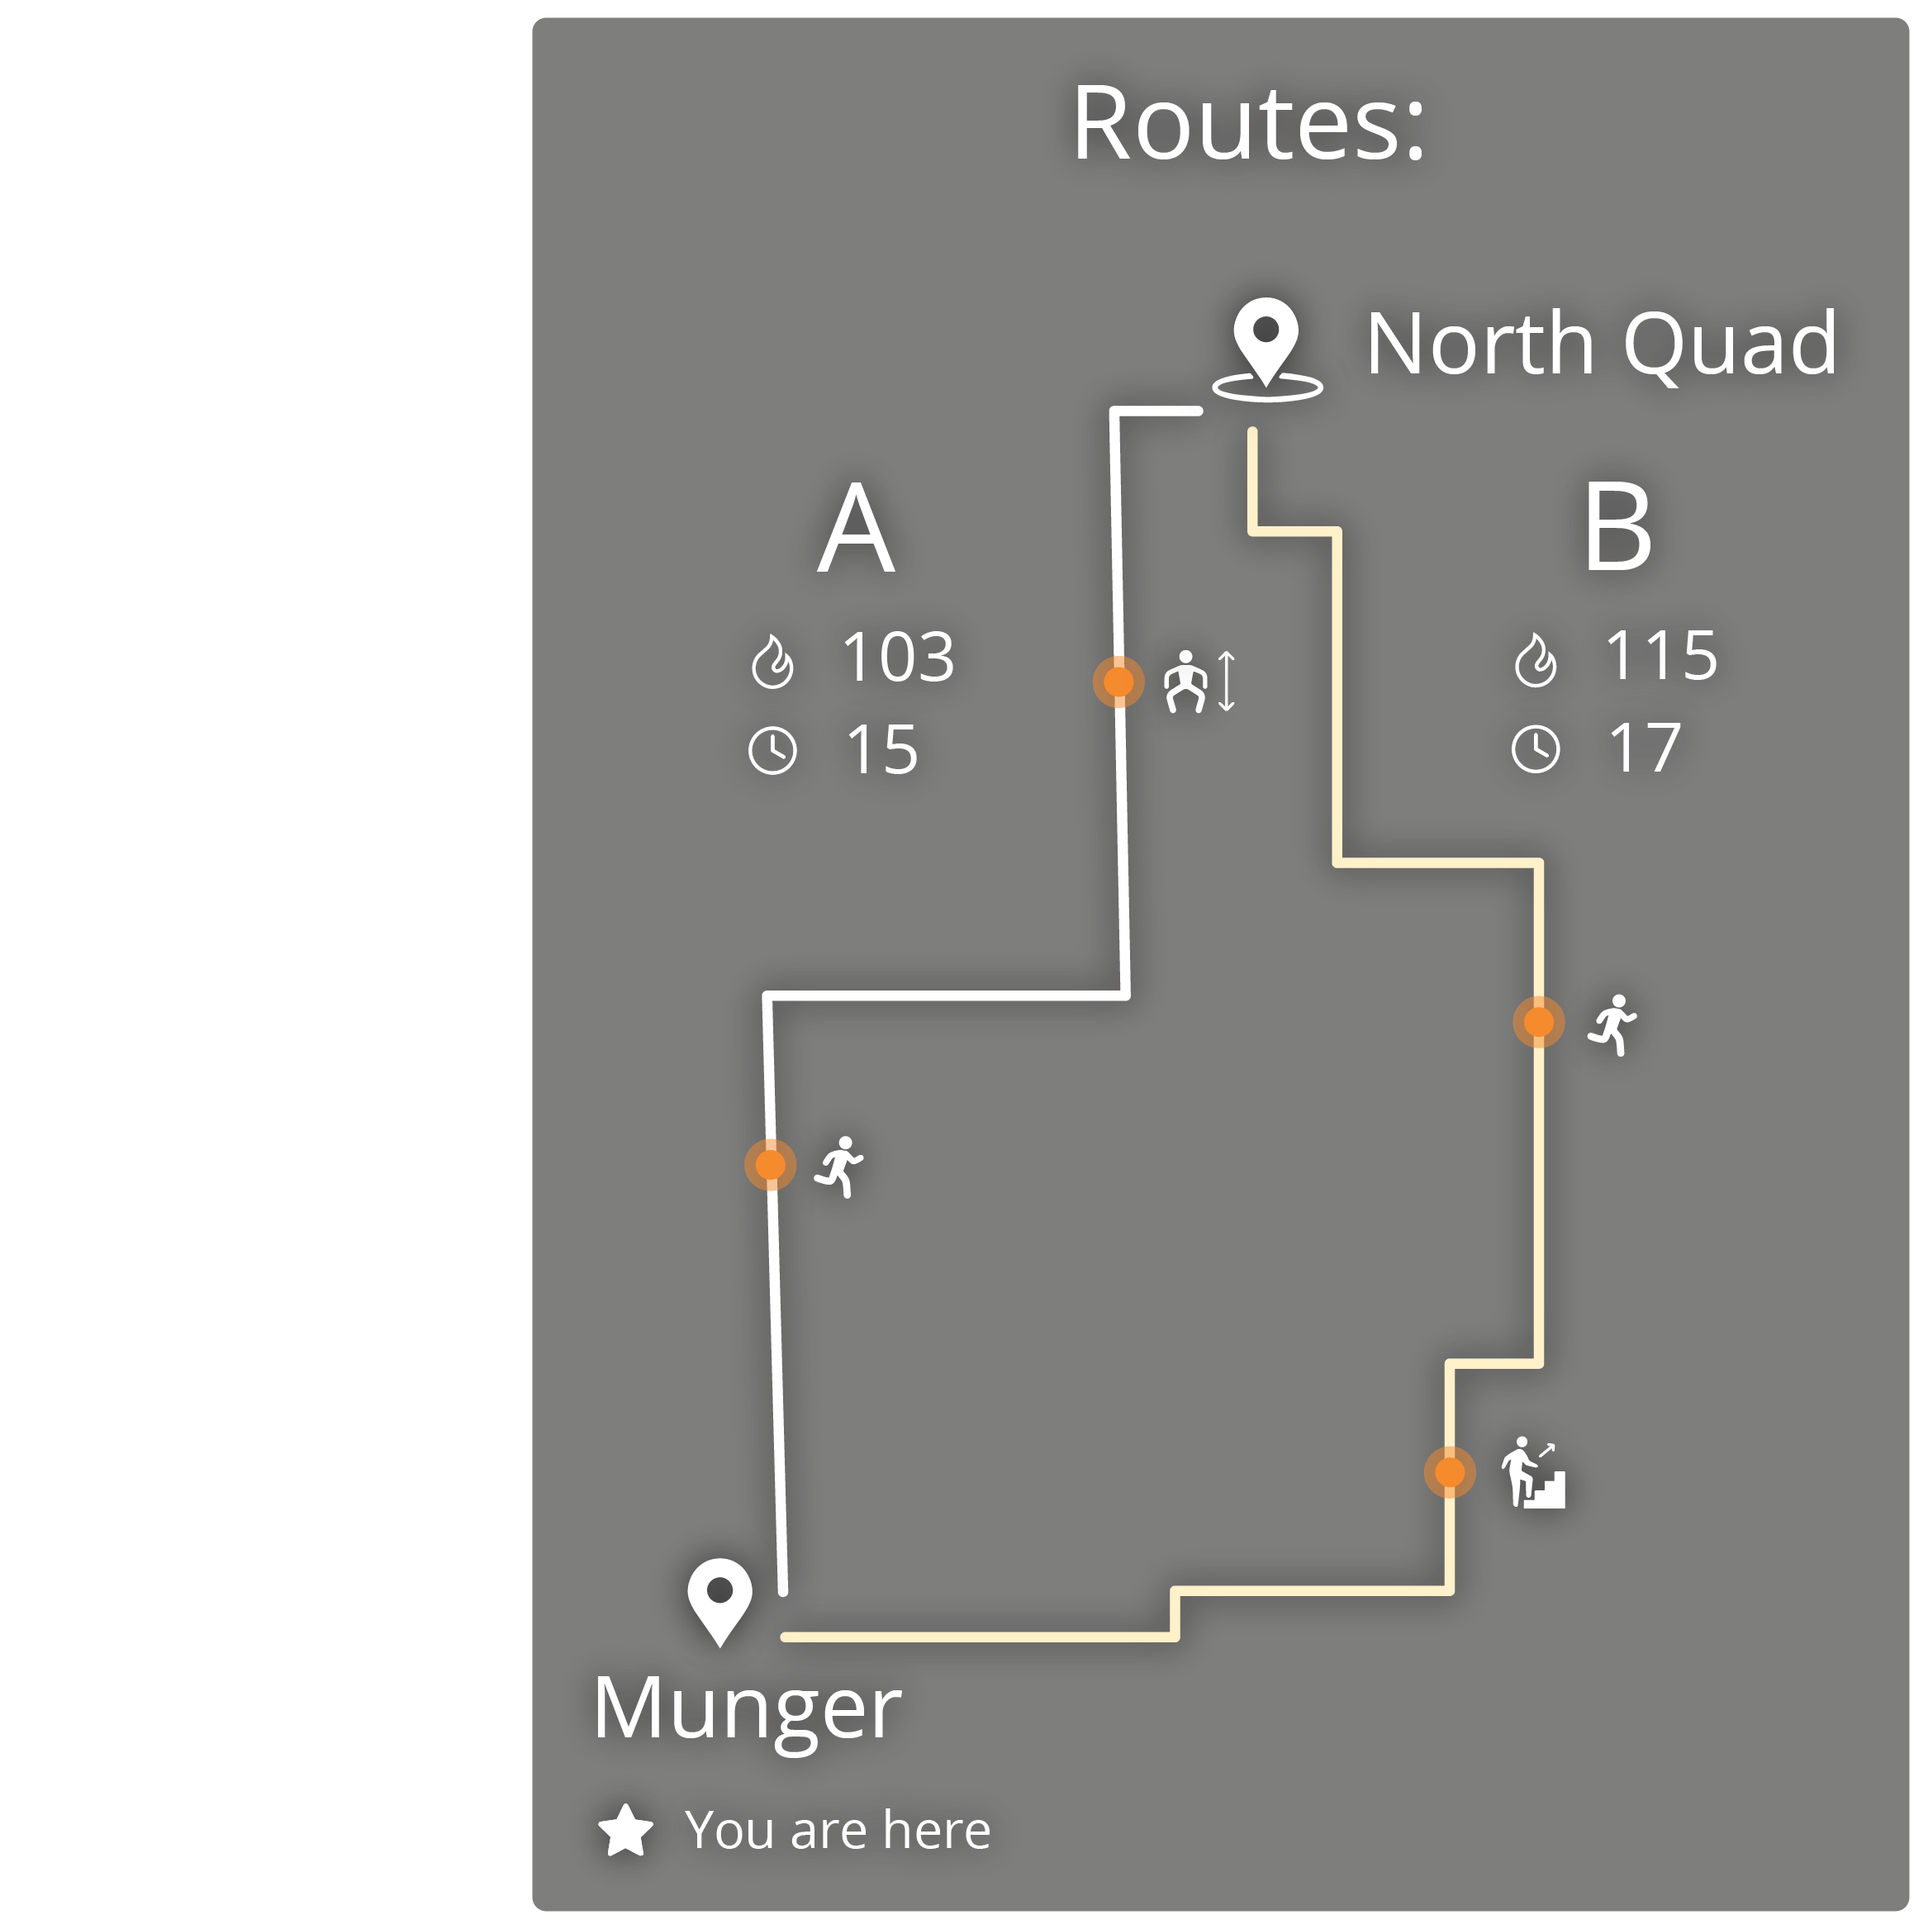
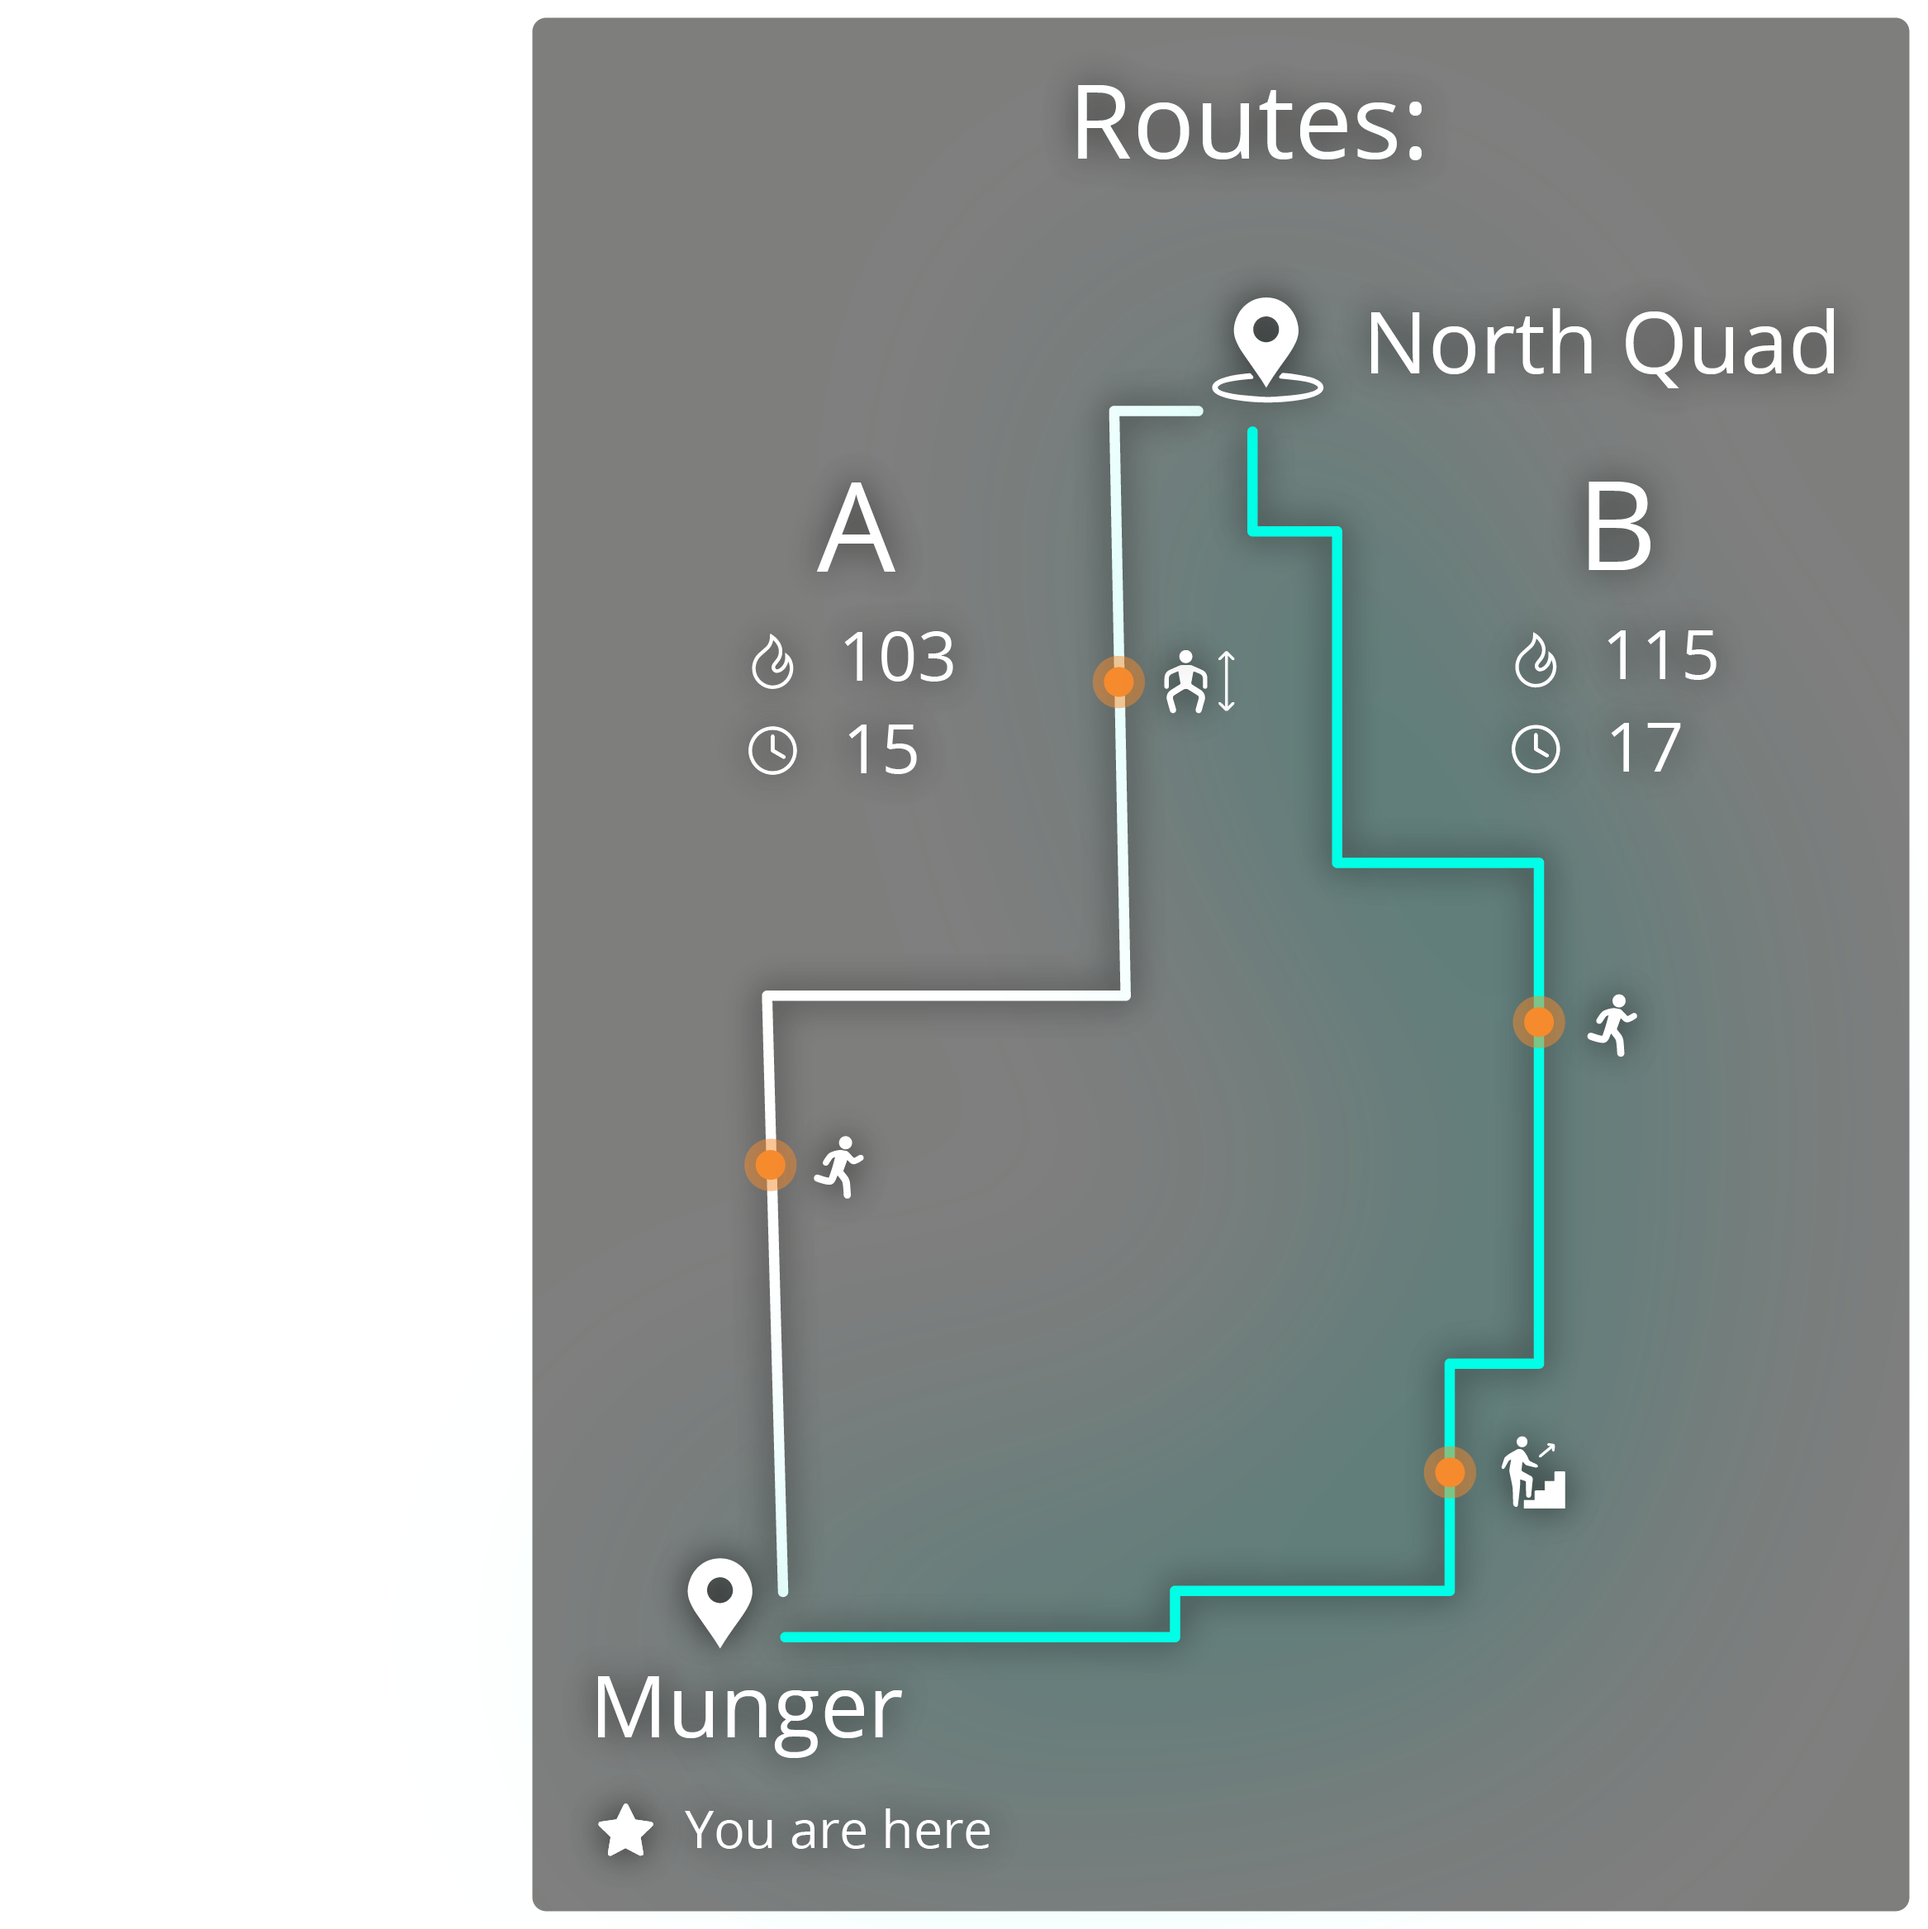
adding new exercise order and highlights

Changed region(s): [[0.401, 0.2775, 0.8329, 0.8634], [0.6478, 0.2158, 0.6787, 0.2775], [0.5553, 0.2775, 0.5861, 0.3392]]

diff --git a/index.html b/index.html
@@ -535,6 +535,9 @@
 </script>
 <body style='margin : 0px; overflow: hidden;'>
   <a-scene embedded arjs='sourceType: webcam; debugUIEnabled: false;'>
+      <a-assets>
+          <audio id="notification" src="Assets/quite-impressed.mp3" preload="auto"></audio>
+        </a-assets>
     <a-camera></a-camera>
      
       </a-image>
@@ -573,8 +576,8 @@
           <a-image class="tile" position="2.7 .7 -8" src="Assets/UI/demov2/Time_on_top/1007_after_route_selection.png" width="3" height="3"></a-image>
       </a-entity>
       <a-entity id="ui7" position='0 0 0' visible=false>
-        <a-image class="tile" position="2.7 -.2 -8" src="Assets/UI/demov2/06_300ft_climbing.png" width="3" height="3"></a-image>
-        <a-sound src="src: Assets/quite-impressed.mp3" autoplay="true" position="0 2 5"></a-sound>
+        <a-image class="tile" position="2.7 -.2 -8" src="Assets/UI/demov2/09_300ft_jogging.png" width="3" height="3"></a-image>
+        <a-sound src="#notification" autoplay="true" position="0 2 5"></a-sound>
         <a-image class="tile" position="2.7 .7 -8" src="Assets/UI/demov2/Time_on_top/1010_300ft.png" width="3" height="3"></a-image>
         <a-image id="left-tile" class="tile" position="0 -1.2 -8" src="Assets/UI/demov2/Arrow/Arrow_straight.png" width="2" height="2">
           <a-animation
@@ -589,7 +592,7 @@
         </a-image>
       </a-entity>
       <a-entity id="ui8" position='0 0 0' visible=false>
-        <a-image class="tile" position="2.7 -.2 -8" src="Assets/UI/demov2/06_100ft_climbing.png" width="3" height="3"></a-image>
+        <a-image class="tile" position="2.7 -.2 -8" src="Assets/UI/demov2/10_100ft_jogging.png" width="3" height="3"></a-image>
         <a-image class="tile" position="2.7 .7 -8" src="Assets/UI/demov2/Time_on_top/1012_100ft.png" width="3" height="3"></a-image>
         <a-image id="left-tile" class="tile" position="0 -1.2 -8" src="Assets/UI/demov2/Arrow/Arrow_straight.png" width="2" height="2">
           <a-animation
@@ -604,7 +607,7 @@
         </a-image>
       </a-entity>
       <a-entity id="ui9" position='0 0 0' visible=false>
-        <a-image class="tile" position="2.7 -.2 -8" src="Assets/UI/demov2/07_100ft_climbing_accepted.png" width="3" height="3"></a-image>
+        <a-image class="tile" position="2.7 -.2 -8" src="Assets/UI/demov2/11_100ft_jogging_accepted.png" width="3" height="3"></a-image>
         <a-image class="tile" position="2.7 .7 -8" src="Assets/UI/demov2/Time_on_top/1012_100ft.png" width="3" height="3"></a-image>
         <a-image id="left-tile" class="tile" position="0 -1.2 -8" src="Assets/UI/demov2/Arrow/Arrow_straight.png" width="2" height="2">
           <a-animation
@@ -619,7 +622,7 @@
         </a-image>
       </a-entity>
       <a-entity id="ui10" position='0 0 0' visible=false>
-        <a-image class="tile" position="3.3 -.2 -8" src="Assets/UI/demov2/08_start_climbing.png" width="3" height="3"></a-image>
+        <a-image class="tile" position="3.3 -.2 -8" src="Assets/UI/demov2/12_start_jogging.png" width="3" height="3"></a-image>
         <a-image class="tile" position="2.7 .7 -8" src="Assets/UI/demov2/Time_on_top/1013_start_climbing.png" width="3" height="3"></a-image>
         <a-image id="left-tile" class="tile" position="0 -1.2 -8" src="Assets/UI/demov2/Arrow/Arrow_straight.png" width="2" height="2">
           <a-animation
@@ -693,7 +696,7 @@
         </a-image>
       </a-entity>
       <a-entity id="ui15" position='0 0 0' visible=false>
-          <a-image class="tile" position="2.7 -.2 -8" src="Assets/UI/demov2/10_100ft_jogging.png" width="3" height="3"></a-image>
+          <a-image class="tile" position="2.7 -.2 -8" src="Assets/UI/demov2/06_100ft_climbing.png" width="3" height="3"></a-image>
           <a-image class="tile" position="2.7 .7 -8" src="Assets/UI/demov2/Time_on_top/1018_100ft.png" width="3" height="3"></a-image>
           <a-image id="left-tile" class="tile" position="0 -1.2 -8" src="Assets/UI/demov2/Arrow/Arrow_straight.png" width="2" height="2">
             <a-animation
@@ -708,7 +711,7 @@
           </a-image>
       </a-entity>
       <a-entity id="ui16" position='0 0 0' visible=false>
-          <a-image class="tile" position="2.7 -.2 -8" src="Assets/UI/demov2/11_100ft_jogging_accepted.png" width="3" height="3"></a-image>
+          <a-image class="tile" position="2.7 -.2 -8" src="Assets/UI/demov2/07_100ft_climbing_accepted.png" width="3" height="3"></a-image>
           <a-image class="tile" position="2.7 .7 -8" src="Assets/UI/demov2/Time_on_top/1018_100ft.png" width="3" height="3"></a-image>
           <a-image id="left-tile" class="tile" position="0 -1.2 -8" src="Assets/UI/demov2/Arrow/Arrow_straight.png" width="2" height="2">
             <a-animation
